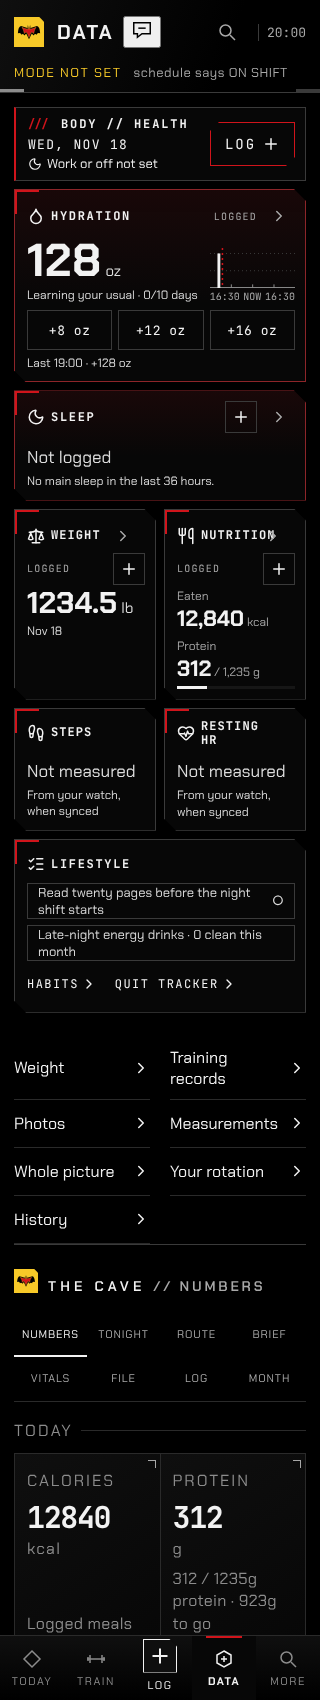
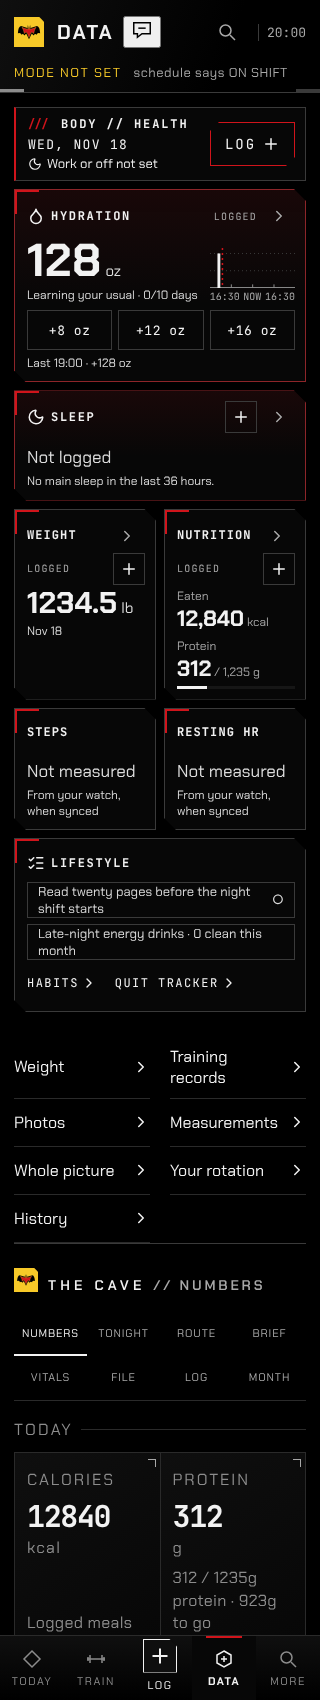
BODY-DASH-001: compact titles never break mid-word; roomier stage key
Gavin's final visual correction, CSS only. Each card measures itself:
at 150 px or less the title's tracking tightens (WEIGHT, NUTRITION on
one line beside their icons at 360 px); at 120 px or less the icon also
steps aside (320 px). The sleep stage key takes two rows under 330 px.
The collision check now fails on any title wider than its cell, any
one-word title on two lines, and any stage-key overlap.

Claude-Session: https://claude.ai/code/session_01UR9w2ohjJjB5vovSQ4fq1M

diff --git a/tests/browser/BodyDash001.test.tsx b/tests/browser/BodyDash001.test.tsx
@@ -33,7 +33,13 @@ function assertNoCollisions(label: string) {
     }
   }
   const spill = [...document.querySelectorAll<HTMLElement>(".bd-card")].filter((c) => c.scrollWidth > c.clientWidth + 1).map((c) => c.dataset.dash);
-  expect({ overlaps, spill }, label).toEqual({ overlaps: [], spill: [] });
+  // Titles: never wider than their cell (a word that can't fit would overflow it), and one-word titles on one line.
+  const cramped = [...document.querySelectorAll<HTMLElement>(".bd-card__label")].filter((l) => l.scrollWidth > l.clientWidth + 1
+    || (!l.textContent!.includes(" ") && l.getClientRects().length && l.getBoundingClientRect().height > parseFloat(getComputedStyle(l).lineHeight) * 1.5)).map((l) => l.textContent);
+  // Stage key items never overlap one another.
+  const keys = [...document.querySelectorAll<HTMLElement>(".bd-stage-key li")].map((li) => li.getBoundingClientRect());
+  const keyOverlap = keys.some((a, i) => keys.slice(i + 1).some((b) => a.left < b.right - 0.5 && b.left < a.right - 0.5 && a.top < b.bottom - 0.5 && b.top < a.bottom - 0.5));
+  expect({ overlaps, spill, cramped, keyOverlap }, label).toEqual({ overlaps: [], spill: [], cramped: [], keyOverlap: false });
 }
 const card = (id: string) => document.querySelector<HTMLElement>(`[data-dash="${id}"]`);
 const text = (id: string) => card(id)?.textContent ?? "";

diff --git a/src/ui/screens/body/bodyDashboard.css b/src/ui/screens/body/bodyDashboard.css
@@ -115,3 +115,21 @@
 
 .bd button:focus-visible { outline: 2px solid var(--p-t1, #f2f2f2); outline-offset: 2px; }
 @media (prefers-reduced-motion: reduce) { .bd * { transition: none !important; } }
+
+/* Final visual acceptance (Gavin, 2026-11-14): compact titles never break mid-word or crowd their controls. Each card
+   measures itself; a narrow card drops its icon and tightens the title's tracking, so even "NUTRITION" or
+   "RESTING HR" fits beside › at 320 px. Words still wrap only between words. */
+.bd-card { container-type: inline-size; }
+.bd-card__label { hyphens: none; }
+@container (max-width: 150px) {
+  .bd-card__label { letter-spacing: .04em; }
+  .bd-card__head { gap: 4px; }
+}
+@container (max-width: 120px) {
+  .bd-card__icon { display: none; }
+  .bd-card__head { grid-template-columns: minmax(0, 1fr) auto auto auto; }
+}
+/* The stage key takes two rows when the sleep card is narrow, so names and times never crowd. */
+@container (max-width: 330px) {
+  .bd-stage-key { grid-template-columns: repeat(2, minmax(0, 1fr)); row-gap: 6px; }
+}

diff --git a/docs/agent/BODY-DASH-001.md b/docs/agent/BODY-DASH-001.md
@@ -126,3 +126,13 @@ NUMBERS still shows TODAY's tiles and the Weight card above History. The smalles
 two into one quiet "Today's readings" disclosure in NUMBERS (closed by default) and keep History as is. This keeps
 every control the history and correction tests use ("water history", "WEIGHT HISTORY", dated weigh-ins), so nothing
 is removed. It's a separate PR for Gavin's go.
+
+### Final visual acceptance correction (Gavin, 2026-11-14)
+
+CSS only. Each card measures its own width (a container query).
+- **150 px or less of content:** the title's tracking tightens and keeps its icon. That's 360 px phones: WEIGHT and
+  NUTRITION sit on one line, and RESTING HR wraps only between its words.
+- **120 px or less:** the icon also steps aside. At 320 px every title is on one line.
+- **Stage key:** it becomes a 2 × 2 grid when the sleep card is under 330 px, so names and times don't crowd.
+- **Test:** the collision check now also fails on any title wider than its cell or any one-word title on two lines,
+  and on any overlap in the stage key.
